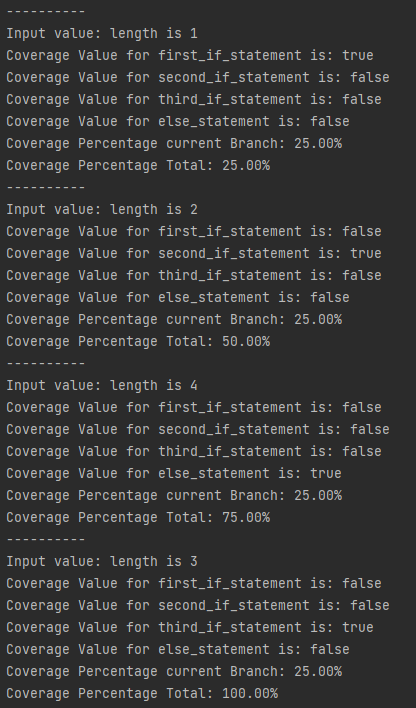
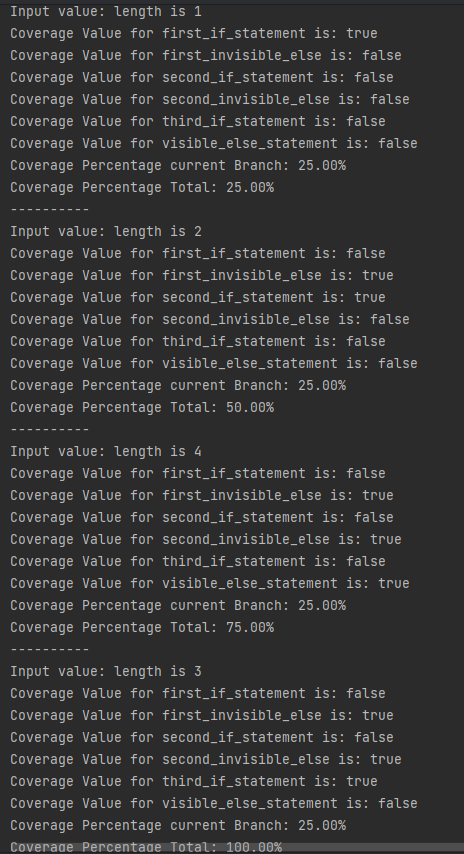
Added invisible else branch coverage measurements

Changed region(s): [[0.0, 0.0, 0.9375, 0.7458], [0.0, 0.7768, 1.0, 1.0]]

diff --git a/bundles/sirix-core/src/test/java/io/sirix/utils/BranchCoverageToIntTest.java b/bundles/sirix-core/src/test/java/io/sirix/utils/BranchCoverageToIntTest.java
@@ -55,17 +55,24 @@ public class BranchCoverageToIntTest {
 
     private void getCurrentBranchCoverage() {
         boolean coverageValue1 = ToIntCoverage.branchCoverage.get("first_if_statement");
-        boolean coverageValue2 = ToIntCoverage.branchCoverage.get("second_if_statement");
-        boolean coverageValue3 = ToIntCoverage.branchCoverage.get("third_if_statement");
-        boolean coverageValue4 = ToIntCoverage.branchCoverage.get("else_statement");
-        printCoverageValues(coverageValue1, coverageValue2, coverageValue3, coverageValue4);
+        boolean coverageValue2 = ToIntCoverage.branchCoverage.get("first_invisible_else");
+        boolean coverageValue3 = ToIntCoverage.branchCoverage.get("second_if_statement");
+        boolean coverageValue4 = ToIntCoverage.branchCoverage.get("second_invisible_else");
+        boolean coverageValue5 = ToIntCoverage.branchCoverage.get("third_if_statement");
+        boolean coverageValue6 = ToIntCoverage.branchCoverage.get("visible_else_statement");
+
+        printCoverageValues(coverageValue1, coverageValue2, coverageValue3, coverageValue4,
+                            coverageValue5, coverageValue6);
     }
 
-    private void printCoverageValues(boolean value1, boolean value2, boolean value3, boolean value4) {
+    private void printCoverageValues(boolean value1, boolean value2, boolean value3, boolean value4,
+                                     boolean value5, boolean value6) {
         System.out.printf("Coverage Value for first_if_statement is: %b \n", value1);
-        System.out.printf("Coverage Value for second_if_statement is: %b \n", value2);
-        System.out.printf("Coverage Value for third_if_statement is: %b \n", value3);
-        System.out.printf("Coverage Value for else_statement is: %b \n", value4);
+        System.out.printf("Coverage Value for first_invisible_else is: %b \n", value2);
+        System.out.printf("Coverage Value for second_if_statement is: %b \n", value3);
+        System.out.printf("Coverage Value for second_invisible_else is: %b \n", value4);
+        System.out.printf("Coverage Value for third_if_statement is: %b \n", value5);
+        System.out.printf("Coverage Value for visible_else_statement is: %b \n", value6);
     }
     private void printCoveragePercentage() {
         int totalTests = 4;
@@ -80,7 +87,7 @@ public class BranchCoverageToIntTest {
         if (ToIntCoverage.branchCoverage.get("third_if_statement")) {
             coveredBranches++;
         }
-        if (ToIntCoverage.branchCoverage.get("else_statement")) {
+        if (ToIntCoverage.branchCoverage.get("visible_else_statement")) {
             coveredBranches++;
         }
         double coveragePercentage = (double) coveredBranches / totalTests * 100;
@@ -92,8 +99,10 @@ public class BranchCoverageToIntTest {
 
     private void resetCoverageValues() {
         ToIntCoverage.branchCoverage.put("first_if_statement", false);
+        ToIntCoverage.branchCoverage.put("first_invisible_else", false);
         ToIntCoverage.branchCoverage.put("second_if_statement", false);
+        ToIntCoverage.branchCoverage.put("second_invisible_else", false);
         ToIntCoverage.branchCoverage.put("third_if_statement", false);
-        ToIntCoverage.branchCoverage.put("else_statement", false);
+        ToIntCoverage.branchCoverage.put("visible_else_statement", false);
     }
 }

diff --git a/bundles/sirix-core/src/main/java/io/sirix/utils/Calc.java b/bundles/sirix-core/src/main/java/io/sirix/utils/Calc.java
@@ -135,16 +135,22 @@ public final class Calc {
       ToIntCoverage.branchCoverage.put("first_if_statement", true);
       return b[off] & 0xFF;
     }
+    else {
+      ToIntCoverage.branchCoverage.put("first_invisible_else", true);
+    }
     if (len == 2) {
       ToIntCoverage.branchCoverage.put("second_if_statement", true);
       return ((b[off++] & 0xFF) << 8) | b[off] & 0xFF;
+    }
+    else {
+      ToIntCoverage.branchCoverage.put("second_invisible_else", true);
     }
     if (len == 3) {
       ToIntCoverage.branchCoverage.put("third_if_statement", true);
       return ((b[off++] & 0xFF) << 16) | ((b[off++] & 0xFF) << 8) | b[off++] & 0xFF;
     }
     else {
-      ToIntCoverage.branchCoverage.put("else_statement", true);
+      ToIntCoverage.branchCoverage.put("visible_else_statement", true);
       return ((b[off++] & 0xFF) << 24) | ((b[off++] & 0xFF) << 16) | ((b[off++] & 0xFF) << 8)
               | b[off] & 0xFF;
     }

diff --git a/bundles/sirix-core/src/main/java/io/sirix/utils/ToIntCoverage.java b/bundles/sirix-core/src/main/java/io/sirix/utils/ToIntCoverage.java
@@ -7,8 +7,10 @@ public class ToIntCoverage {
     static {
         branchCoverage = new HashMap<>();
         branchCoverage.put("first_if_statement", false);
+        branchCoverage.put("first_invisible_else", false);
         branchCoverage.put("second_if_statement", false);
+        branchCoverage.put("second_invisible_else", false);
         branchCoverage.put("third_if_statement", false);
-        branchCoverage.put("else_statement", false);
+        branchCoverage.put("visible_else_statement", false);
     }
 }
